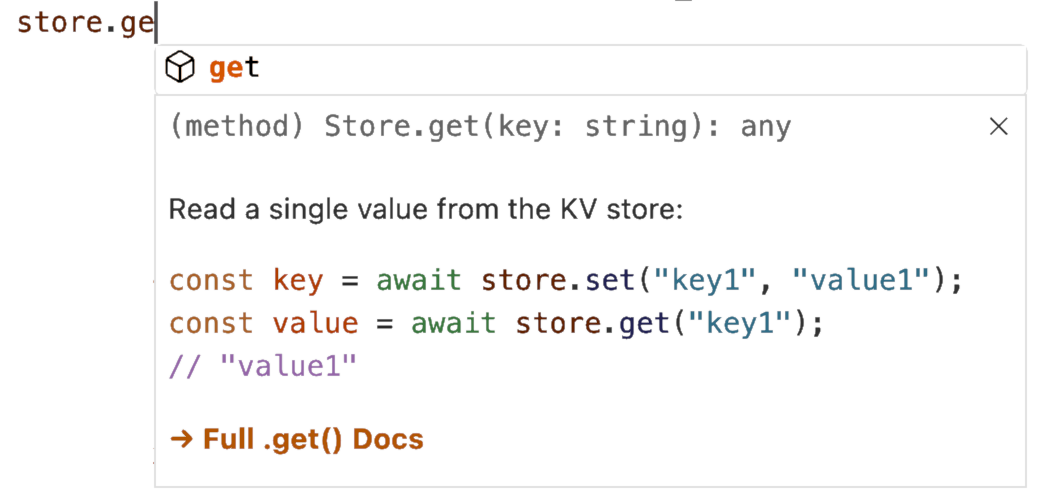
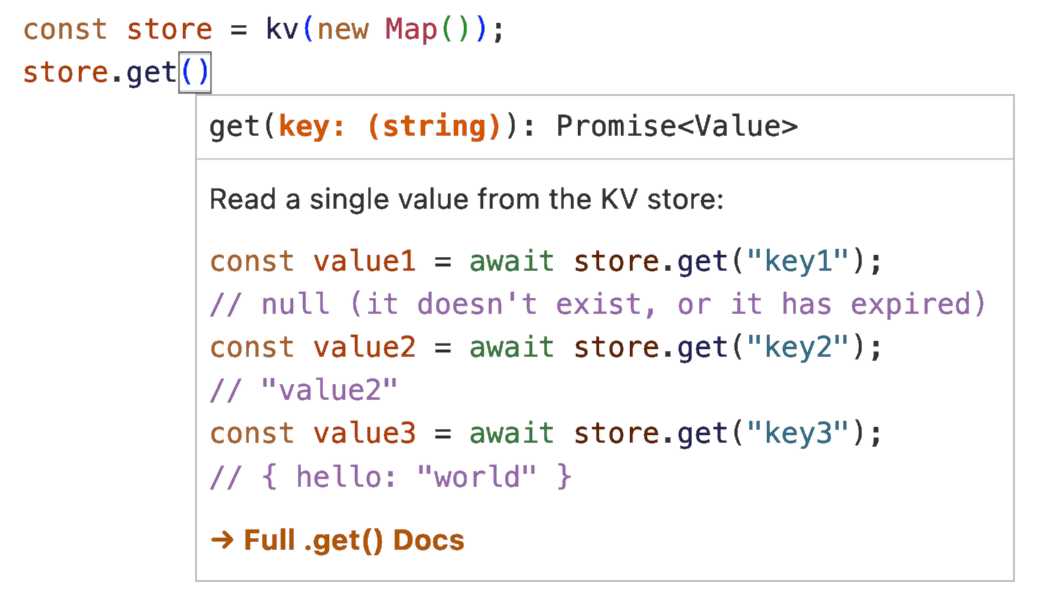
Improved img

diff --git a/src/index.d.ts b/src/index.d.ts
@@ -1,12 +1,12 @@
-type Key = string;
 type Options = { expires?: number | string | null };
+type Value = null | string | { [key: string]: Value } | Value[];
 
 type Store = {
-  get: (key: Key) => Promise<any>;
-  add: (value: any, options?: Options) => Promise<Key>;
-  set: (key: Key, value: any, options?: Options) => Promise<Key>;
-  has: (key: Key) => Promise<boolean>;
-  del: (key: Key) => Promise<null>;
+  get: (key: string) => Promise<Value>;
+  add: (value: any, options?: Options) => Promise<string>;
+  set: (key: string, value: any, options?: Options) => Promise<string>;
+  has: (key: string) => Promise<boolean>;
+  del: (key: string) => Promise<null>;
 
   keys: () => Promise<string[]>;
   values: () => Promise<any[]>;

diff --git a/src/index.js b/src/index.js
@@ -123,14 +123,17 @@ class Store {
    * Read a single value from the KV store:
    *
    * ```js
-   * const key = await store.set("key1", "value1");
-   * const value = await store.get("key1");
-   * // "value1"
+   * const value1 = await store.get("key1");
+   * // null (it doesn't exist, or it has expired)
+   * const value2 = await store.get("key2");
+   * // "value2"
+   * const value3 = await store.get("key3");
+   * // { hello: "world" }
    * ```
    *
    * **[→ Full .get() Docs](https://polystore.dev/documentation#get)**
    * @param {(string)} key
-   * @returns {(any)} value
+   * @returns {Promise<(Value)>}
    */
   async get(key) {
     await this.promise;

diff --git a/src/index.test.js b/src/index.test.js
@@ -7,7 +7,7 @@ import { Level } from "level";
 import localForage from "localforage";
 import { createClient } from "redis";
 
-import kv from "./";
+import kv from "./index.js";
 import customFull from "./test/customFull.js";
 import customSimple from "./test/customSimple.js";
 
